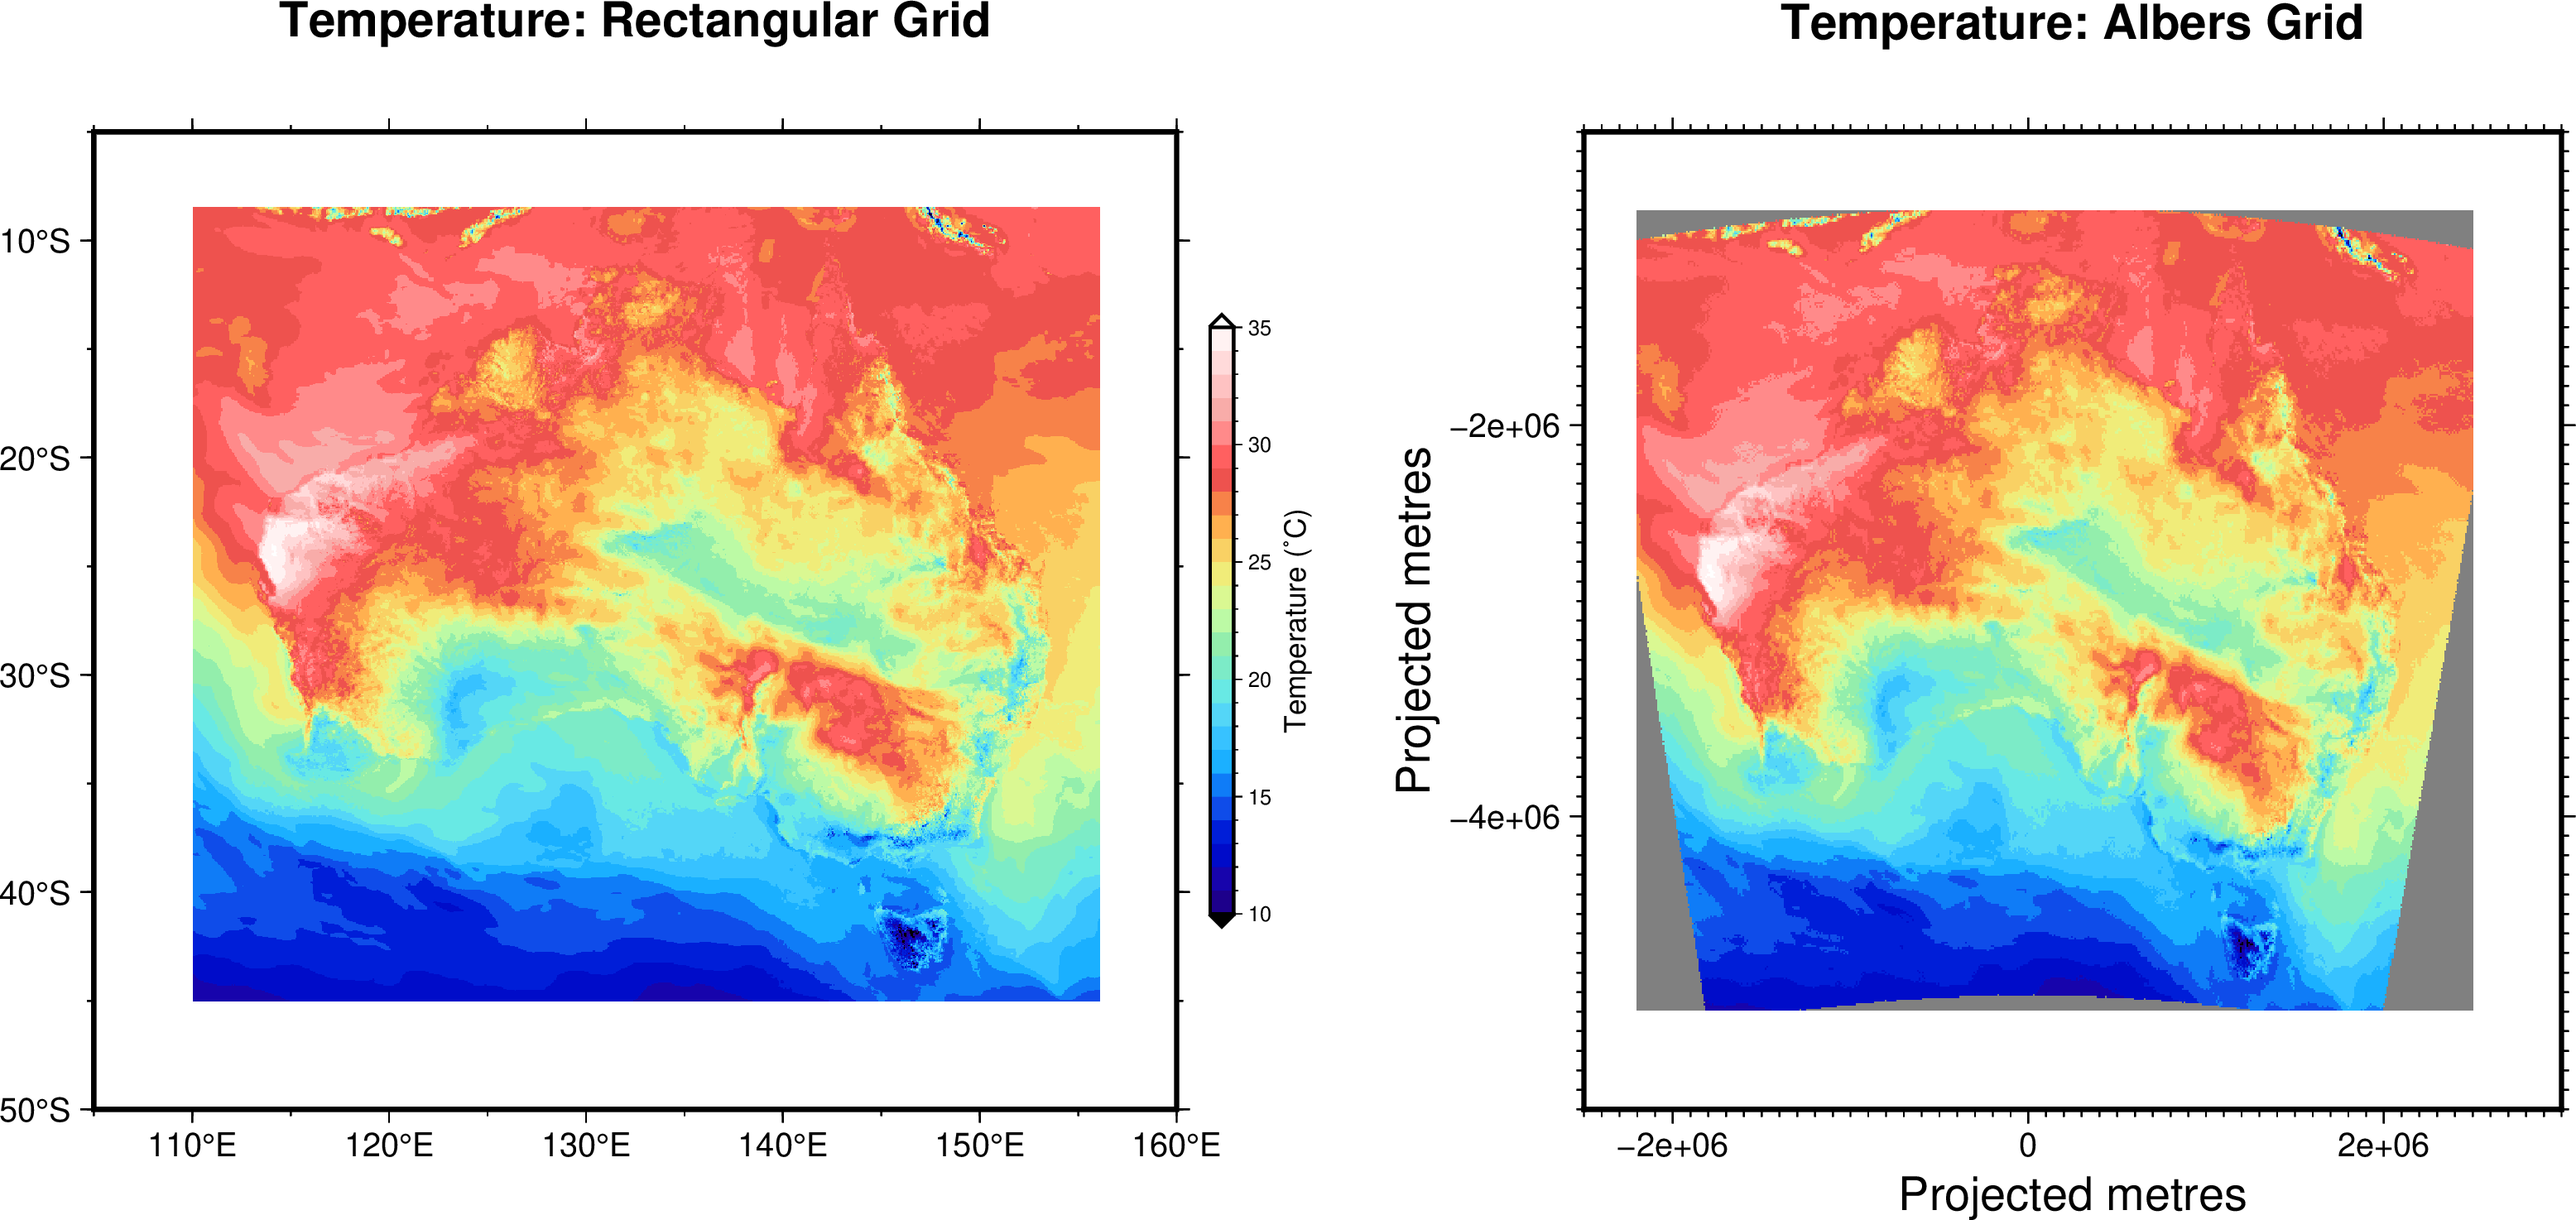
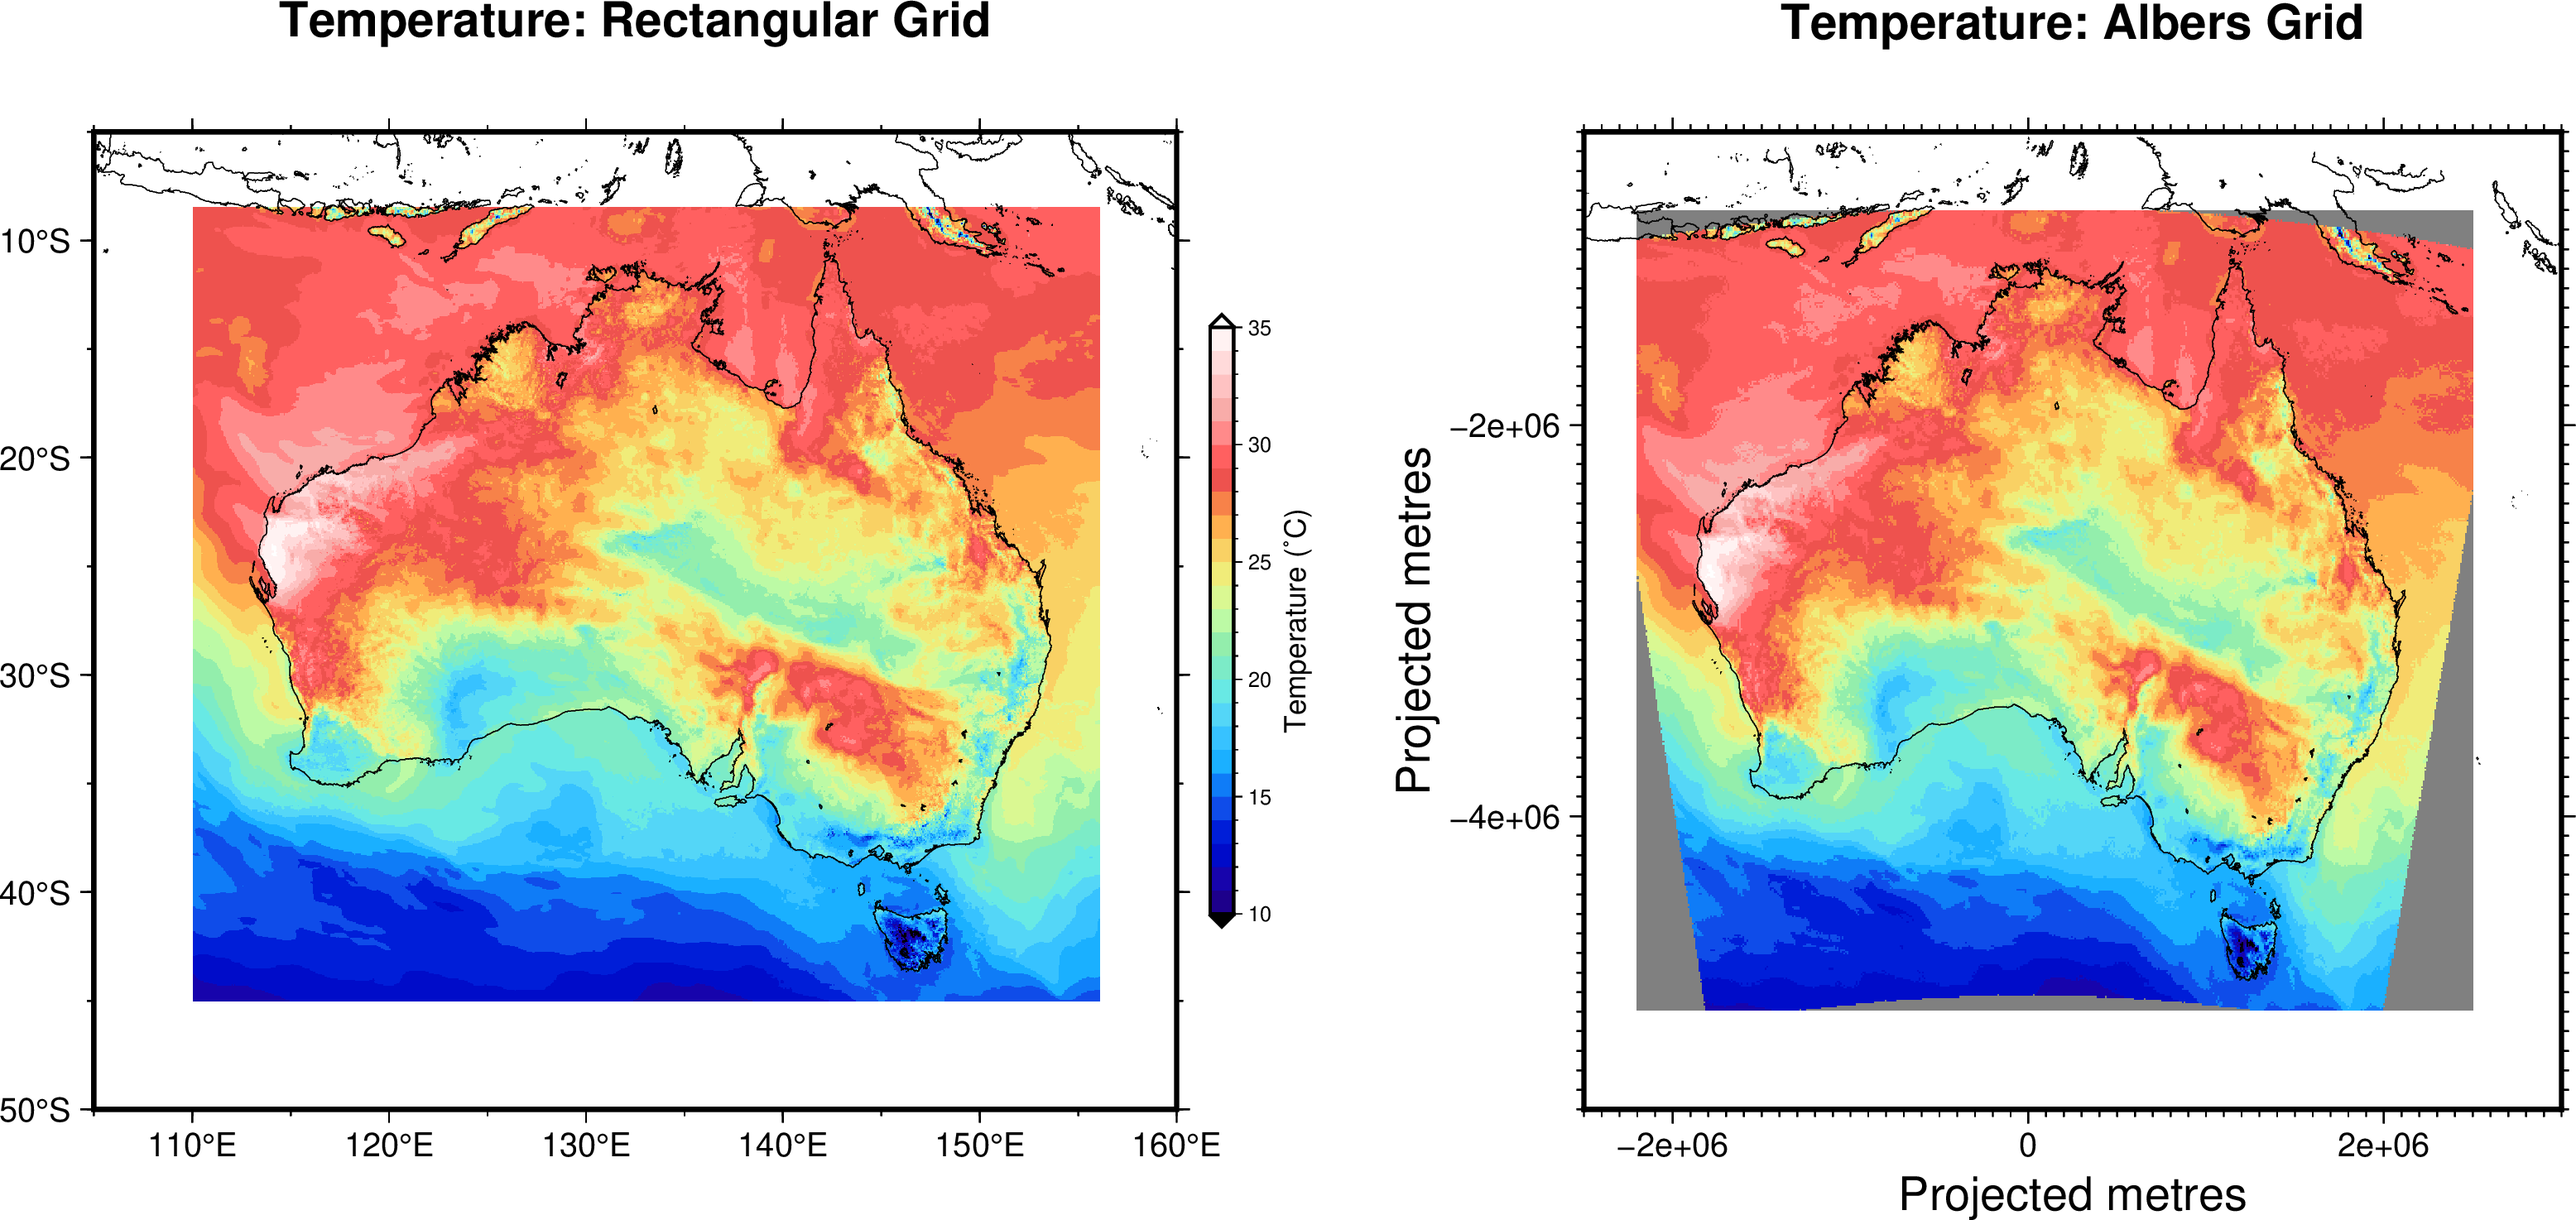
Add coastlines to input examples.

diff --git a/bom_notes/albers.md b/bom_notes/albers.md
@@ -105,4 +105,18 @@ configuration which processed files on a regular longitude-latitude grid, and
 replaced the files with new ones on an Albers grid. Examples of the original
 input files and the new Albers grid input files are shown below.
 
-![](inputs.png)
+![Example METPlus inputs](inputs.png)
+
+If the new projection functionality in the base MET code is working properly,
+then METPlus verification statistics for the data on the two grids should be
+similar (because the only difference between the two grids is the map
+projection the data are on).
+
+Sample files for nine days during April 2025 are in the sub-directories of
+`/mnt/eta_storage/metplus/tph/processed` on `borabora`. The files on a
+rectangular longitude-latitude grid have names beginning with `lonlat_`, and
+files on an Albers grid have names beginning with `albers_`.
+
+Reza provided me with METPlus configuration files to generate verification
+statistics. I ran the scripts over the regular gridded data, and the Albers
+gridded data. The results are compared below.
